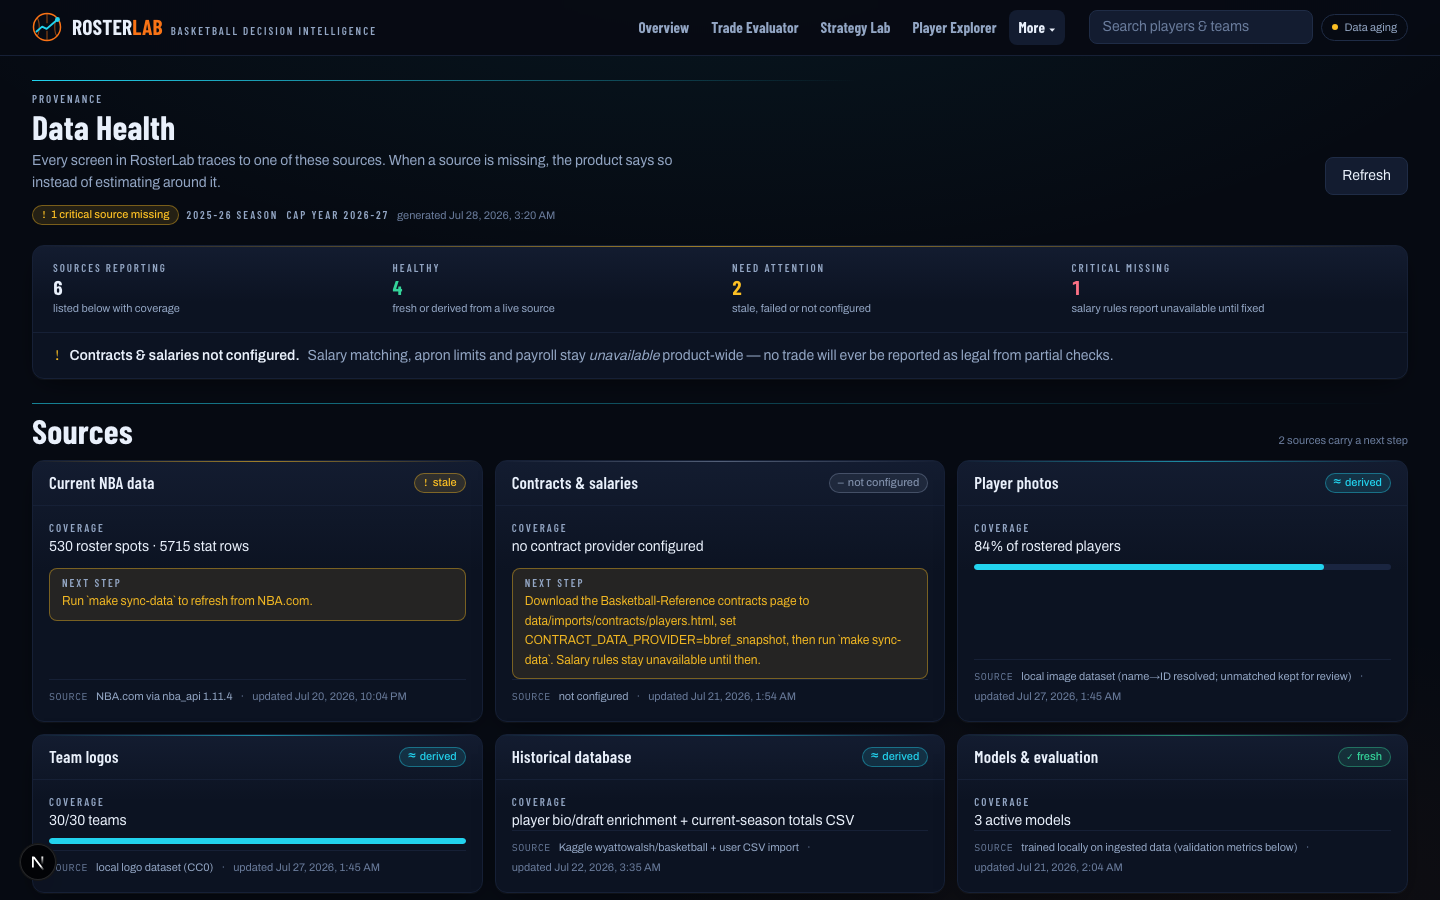
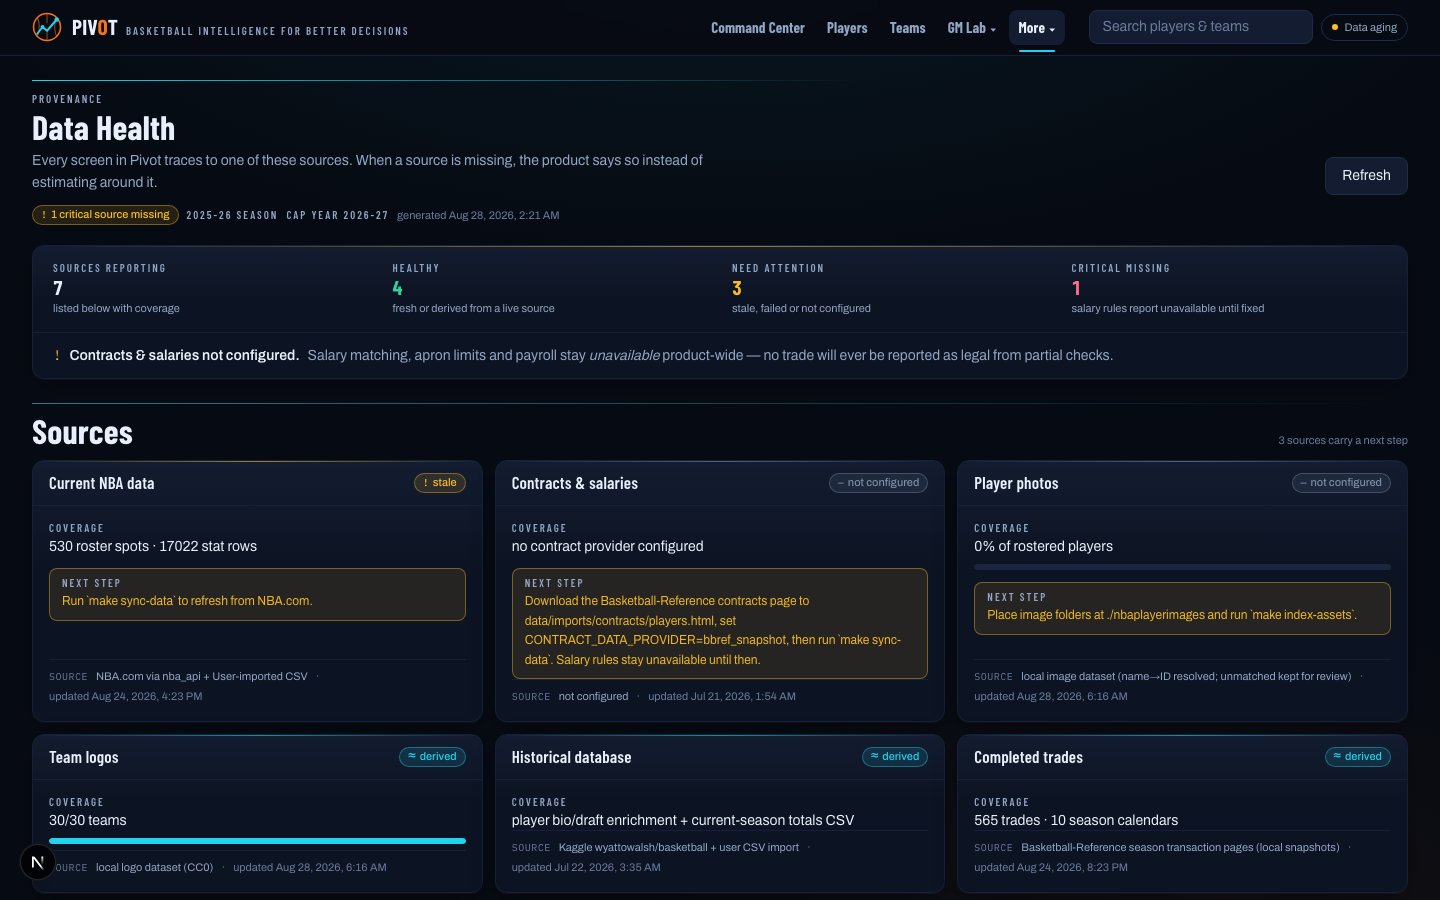
docs(pivot): record the QA that ran, and regenerate the screenshots that still said RosterLab
The validation report's §6 listed three checks as blocked by the local environment and the
provenance defect as carried into R8. Both statements are now false, and a report that
still says them is worse than no report.

- §9 records the closing pass: what each blocked check returned, the ten provenance sites
  and what they say now, the regressions found, and what was deliberately left alone.
- The R8 plan's item 1 is marked done rather than deleted, so the reasoning that put it
  first stays readable. R8 starts at item 2.
- The seven `docs/screenshots/` PNGs embedded in the README were captured before the rename
  and every one showed the ROSTERLAB wordmark and the superseded tagline. Regenerated from
  the running stack.

Also recorded: `nbaplayerimages/` is user-supplied, gitignored, and the copy on the synced
volume has been emptied by iCloud, so this working copy has no player photos and its
`media_assets` player rows were pruned to match. Team logos are 30/30.

diff --git a/docs/pivot/validation-report.md b/docs/pivot/validation-report.md
@@ -135,13 +135,13 @@ make lineup-availability        # re-measures the R6-4 refusal (network)
 
 ## 6. Known issues remaining
 
+### Fixed after this report was first written — see §9
+
+1. ~~**The API hard-codes provenance to NBA.com** regardless of a row's actual
+   `source_provider`.~~ **Fixed.** Ten serving sites now read the row. See §9.
+
 ### Carried into R8 (documented, not fixed here)
 
-1. **The API hard-codes provenance to NBA.com** regardless of a row's actual
-   `source_provider`. Synthetic demo rows are correctly stamped and quarantined in storage
-   but are *described* as NBA.com data when served. This is the one genuine honesty defect
-   the audit found. It is first in [the R8 plan](r8-readiness.md) because it is small and
-   because the claim is the product.
 2. **The Strategy Lab still re-implements the composite in the browser**
    (`app/strategy-lab/page.tsx:93-108`) and re-ranks every saved deal from it. Real, and left
    alone: the page is 1,805 lines and entangled with slider state, and moving the calculation
@@ -251,3 +251,107 @@ regenerable artifacts. That is the operator's call and nothing here deleted it.
 - That the load-bearing historical identifiers survived: `tradelab-backend`, `tradelab.db`,
   the `tradelab:` cache prefix, `TEI`, `ROSTERLAB_OFFLINE`, `rosterlab.favoriteTeam`, and the
   13 `ROSTERLAB_*.md` reports.
+
+
+---
+
+## 9. Closing pass — the QA that §6 could not run
+
+*Everything §6 listed as blocked was run, on a checkout moved off the iCloud-synced volume.
+The environment, not the code, was the blocker: `git status` went from minutes to 0.019 s,
+`next dev` from a 3-minute stall to "Ready in 365 ms", and `next build` from a
+`TurbopackInternalError` to 15 seconds.*
+
+### The three blocked checks, run
+
+| Check | Result |
+| --- | --- |
+| **Playwright e2e** | **6 passed** — after fixing one genuine regression (below) |
+| **Visual QA** (15 routes x 7 viewports) | **105 screenshots CLEAN** — 0 px horizontal overflow, 0 console errors, 0 empty pages |
+| **Live browser QA** | Every route walked at 1920 / 1440 / 1366 / 1280 / 1024 / 768 / 390 |
+
+Full battery re-run after every fix: `pytest` **1003 passed / 2 skipped**, coverage **89 %**;
+`ruff`, `mypy` (109 files), `eslint`, `tsc` clean; `alembic check` no drift; `vitest`
+**110 passed**; `next build` **13 routes**.
+
+### The provenance defect, fixed
+
+`source_provider` was never read anywhere in the serving layer. `Provenance` defaulted to
+`nba_api` / `NBA.com` and **no caller ever overrode it**, so a demo row — correctly stamped
+`demo_seed`, correctly refused entry to a real database, correctly guarded by a Playwright
+roster-name check — was still *described to the client as NBA.com data*. Four guards stopped
+synthetic data leaking; none stopped it being mislabelled.
+
+`app/core/provenance.py` now holds the one provider-to-upstream map. It lives in `core`, not
+beside the API schemas, because services build source cards and decision memos too and a
+service must not import from `app.api`. An unmapped provider renders as its own key rather
+than falling back to NBA.com: an unfamiliar label is a much smaller lie than a confident
+wrong one.
+
+| Site | Was | Now |
+| --- | --- | --- |
+| `api/schemas.py::Provenance` | class defaults `nba_api` / `NBA.com` | required fields; `Provenance.of(row)` |
+| `api/v1/teams.py::_team_out` | defaulted | reads the row |
+| `api/v1/players.py::_player_out` | defaulted | reads the row |
+| `api/v1/teams.py` roster | `"NBA.com via nba_api (CommonTeamRoster)"` | derived, plus `source_providers` |
+| `api/v1/players.py` stats | `"NBA.com via nba_api (LeagueDashPlayerStats)"` | derived, plus `source_providers` |
+| `services/data_health.py` "Current NBA data" | named nba_api while counting every provider's rows | names the providers actually in those tables |
+| `services/intelligence.py::SKILL_SOURCE` | `"… (NBA.com via nba_api)"` | names the population, not an upstream |
+| `services/reports.py` decision memo | `"Source: NBA.com via nba_api"` | from `data_freshness["source"]` |
+| `ingestion/jobs.py` season calendar | defaulted the *stored* provider to `nba_api` | `"unknown"` — never write an unearned claim |
+| `components/ui.tsx::SourceRail` / `SourceLine` | `source` **defaulted** to `"NBA.com via nba_api"` | required prop; every rail passes what was served |
+
+Four UI sites hard-coded the string independently of the API (`team-outlook` index and
+detail, the player header, and the Trade Evaluator's fallback) and now render the served
+`upstream`. `strategy-lab`'s `ENGINE_SOURCE` no longer appends an upstream it never checked.
+
+On the ingested database the change is visible and correct: `/players/{id}/stats` now reports
+**"NBA.com via nba_api + User-imported CSV"**, because that endpoint has always served both
+and only ever named one.
+
+Two new tests pin it: a demo-seeded database is walked through the API and asserted never to
+be described as NBA.com, and an unmapped provider is asserted to render as itself.
+
+**Deliberately not changed.** `list_season_totals` filters `stat_type="totals"`, which only
+the CSV importer writes — the demo seeder uses `csv_totals` — so its hard-coded label cannot
+be wrong. Static product prose ("Rosters and stats from NBA.com, never invented" on the home
+page, the footer, `/methodology`, the OpenAPI description) is a claim about the deployment
+rather than a per-row label, and was left alone.
+
+### Regressions found and fixed
+
+1. **`comparablesResponseSchema` rejected the backend's own empty-corpus response.**
+   `seasons_ingested: z.array(z.string()).min(1)` was stricter than
+   `ComparableTradeService.coverage()`, which derives the list from the corpus — so it is
+   `[]` exactly when the corpus is empty, and that same block rides on the `available: false`
+   responses. A zod throw instead of the designed unavailable state. **The one confirmed
+   restructure regression that a type-check and a build could not catch.**
+2. **The e2e homepage spec was stale.** The restructure rewrote the headline, both calls to
+   action and the tool launcher; §6 predicted the suite "should pass unmodified" and it did
+   not. Four assertions updated to the strings that ship, same six intents.
+3. **Hydration mismatches on `/` and `/salary-cap-center`** (pre-existing, not from the
+   restructure). The shell hydrates before these pages and warms the shared `["teams"]` query
+   cache, so their first client render already had data while the server HTML had skeletons.
+   `lib/hydrated.ts` holds one `useHydrated()`; query results are read through it, so the
+   hydration render matches the server exactly. The Trade Evaluator's file-local copy of the
+   same hook was folded into it.
+4. **Horizontal overflow on mobile.** Seven headings carried `whitespace-nowrap` on
+   `title-lg`, which floors at 24 px — including the user-supplied trade name. Now
+   `text-balance`. Measured 0 px overflow at 390 px on every route.
+5. **Error states.** The restructure gave its *new* intelligence queries an error branch and
+   left the older queries beside them reading only `data`, so a failed request rendered the
+   same skeleton as a pending one, forever. Added on the Command Center (teams, deals,
+   strategies), Team Outlook (roster, payroll) and the player page (stats, contract).
+6. **`health.providers` dereferenced without a guard** while `dataHealthSchema` deliberately
+   does not validate `providers`.
+7. **Branding.** `app/favicon.ico` was still the create-next-app Vercel triangle; replaced
+   with `app/icon.svg` carrying the Pivot mark. The seven `docs/screenshots/` PNGs embedded
+   in the README still showed the **RosterLab** wordmark; regenerated.
+
+### Known environment limitation
+
+`nbaplayerimages/` is user-supplied and gitignored, and the copy on the synced volume has
+been emptied by iCloud. This working copy therefore has no player photos, and its
+`media_assets` player rows were pruned so the manifest matches the files that exist. Restore
+the tree and run `make index-assets` to bring them back. Team logos (30/30) were recovered
+and are indexed.

diff --git a/docs/pivot/r8-readiness.md b/docs/pivot/r8-readiness.md
@@ -13,7 +13,7 @@ R9–R14 impossible or duplicative, in an order where each step is independently
 
 | # | Work | Size | Unblocks | Risk |
 | --- | --- | --- | --- | --- |
-| **1** | Fix the provenance-labelling defect | S | honesty | low |
+| ~~1~~ | ~~Fix the provenance-labelling defect~~ — **done**, see [validation report §9](validation-report.md) | S | honesty | low |
 | **2** | One evaluation entry point | M | R13, R14, and the two search services | medium |
 | **3** | Persist the skill vector | M | R9, R11, R12 | medium |
 | **4** | Multi-membership archetypes | S | R10 | low |
@@ -25,9 +25,15 @@ Items 1–4 are the ones that matter. 5–7 are hygiene that R8 is the natural h
 
 ---
 
-## 1. Fix the provenance-labelling defect
+## 1. Fix the provenance-labelling defect — **DONE, not R8 work**
 
-**This is a correctness bug in the product's core claim, and it should go first because it is
+> Fixed while closing the restructure, as a correctness bugfix rather than as R8. Ten serving
+> sites now read `source_provider` off the row; `app/core/provenance.py` holds the single
+> provider-to-upstream map; two tests pin that a `demo_seed` row is never described as
+> NBA.com and that an unmapped provider renders as itself. See
+> [validation report §9](validation-report.md). **R8 starts at item 2.**
+
+**This was a correctness bug in the product's core claim, and it went first because it was
 small and because the claim is the product.**
 
 The database is right: synthetic demo rows are stamped `source_provider="demo_seed"`
